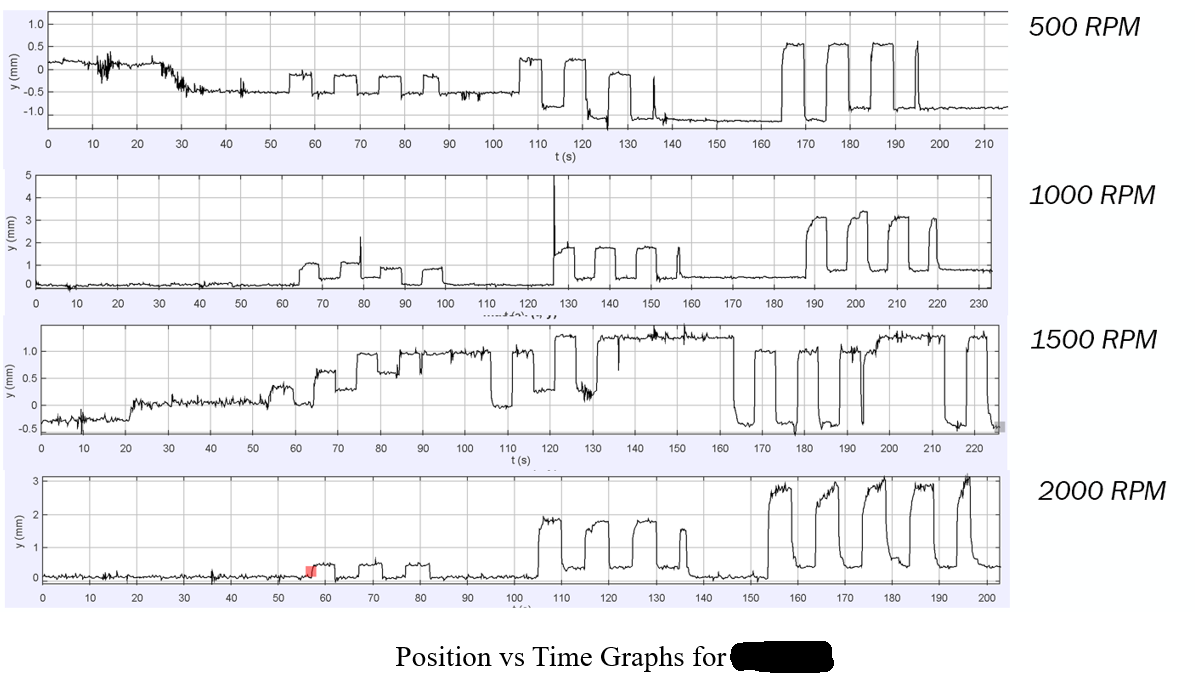
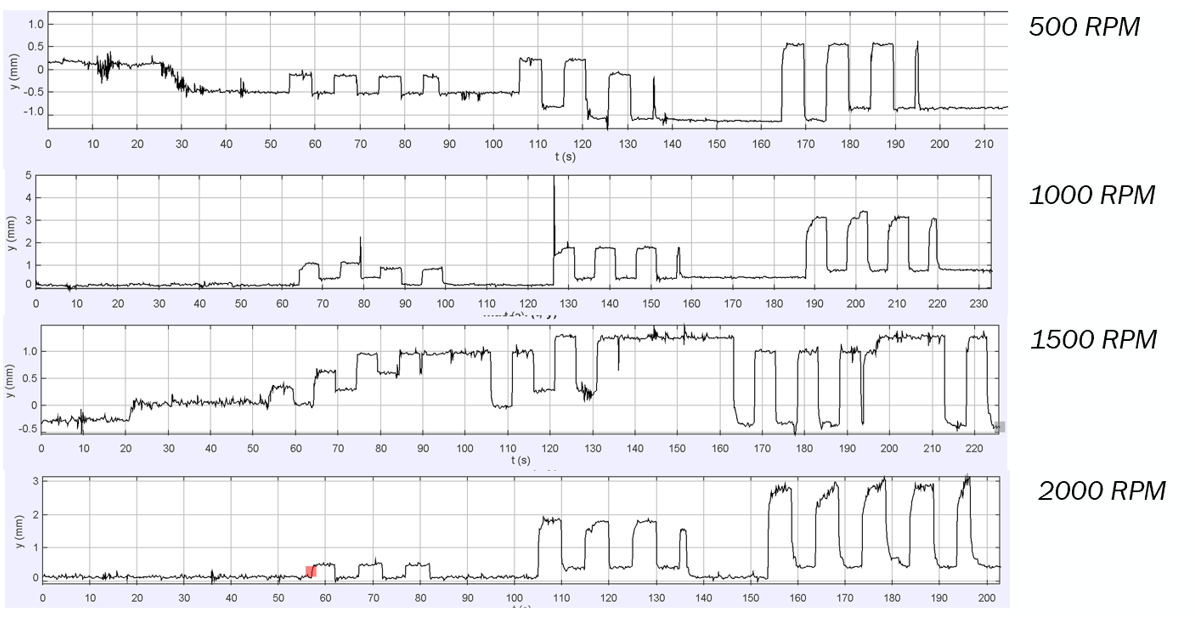
Clean up the Chortos Lab gallery
- Remove the dielectric elastomer actuation schematic. It is a figure from
  a published paper, not original work, and it was serving as the project's
  card image — so the first thing the section showed was someone else's
  figure, uncredited.
- Promote the cantilever macro photograph to the card image. It is original,
  and the micrometer scale in frame is what makes the 0.01 mm tracking claim
  legible at a glance.
- Crop the caption band off the multi-panel displacement figure, which
  carried a visible redaction bar over the title.
- Rewrite that figure's caption to name the 500-2000 RPM range directly,
  since the cropped title no longer supplies it.

Claude-Session: https://claude.ai/code/session_01H34n291vHUsQHTWP9TfPyQ

diff --git a/index.html b/index.html
@@ -738,7 +738,7 @@ footer{padding:36px 0 44px;text-align:center}
 
       <a href="#soft-robotics" class="card reveal" data-tags="hardware data">
         <div class="card-media">
-          <img src="image_0518a3.png" alt="Actuation modes of dielectric elastomers" style="object-position:top">
+          <img src="image_05119d.png" alt="Macro photograph of a dielectric gel cantilever against a micrometer scale">
           <div class="card-badge">Chortos Lab</div>
         </div>
         <div class="card-body">
@@ -948,10 +948,6 @@ footer{padding:36px 0 44px;text-align:center}
 
       <div class="gallery reveal">
         <figure class="shot">
-          <img src="image_0518a3.png" alt="Actuation modes of dielectric elastomers">
-          <figcaption>Actuation modes of dielectric elastomers underpinning the research direction.</figcaption>
-        </figure>
-        <figure class="shot">
           <img src="image_05119d.png" alt="Macro photograph of a dielectric gel cantilever deflecting">
           <figcaption>Macro-photography of a 29.45 mm dielectric gel cantilever under actuation. The micrometer scale in frame is what the Python autotracker keys off to quantify displacement.</figcaption>
         </figure>
@@ -961,7 +957,7 @@ footer{padding:36px 0 44px;text-align:center}
         </figure>
         <figure class="shot">
           <img src="image_051230.png" alt="MATLAB plot of gel displacement over time by spin speed" loading="lazy">
-          <figcaption>MATLAB analysis of gel displacement over time, comparing mechanical response across spin-coating speeds.</figcaption>
+          <figcaption>MATLAB analysis of gel displacement over time across four spin-coating speeds — 500 to 2000 RPM. Each step change is an actuation cycle.</figcaption>
         </figure>
         <figure class="shot">
           <img src="image_05153e.png" alt="Force magnitude versus time under varying voltage" loading="lazy">
